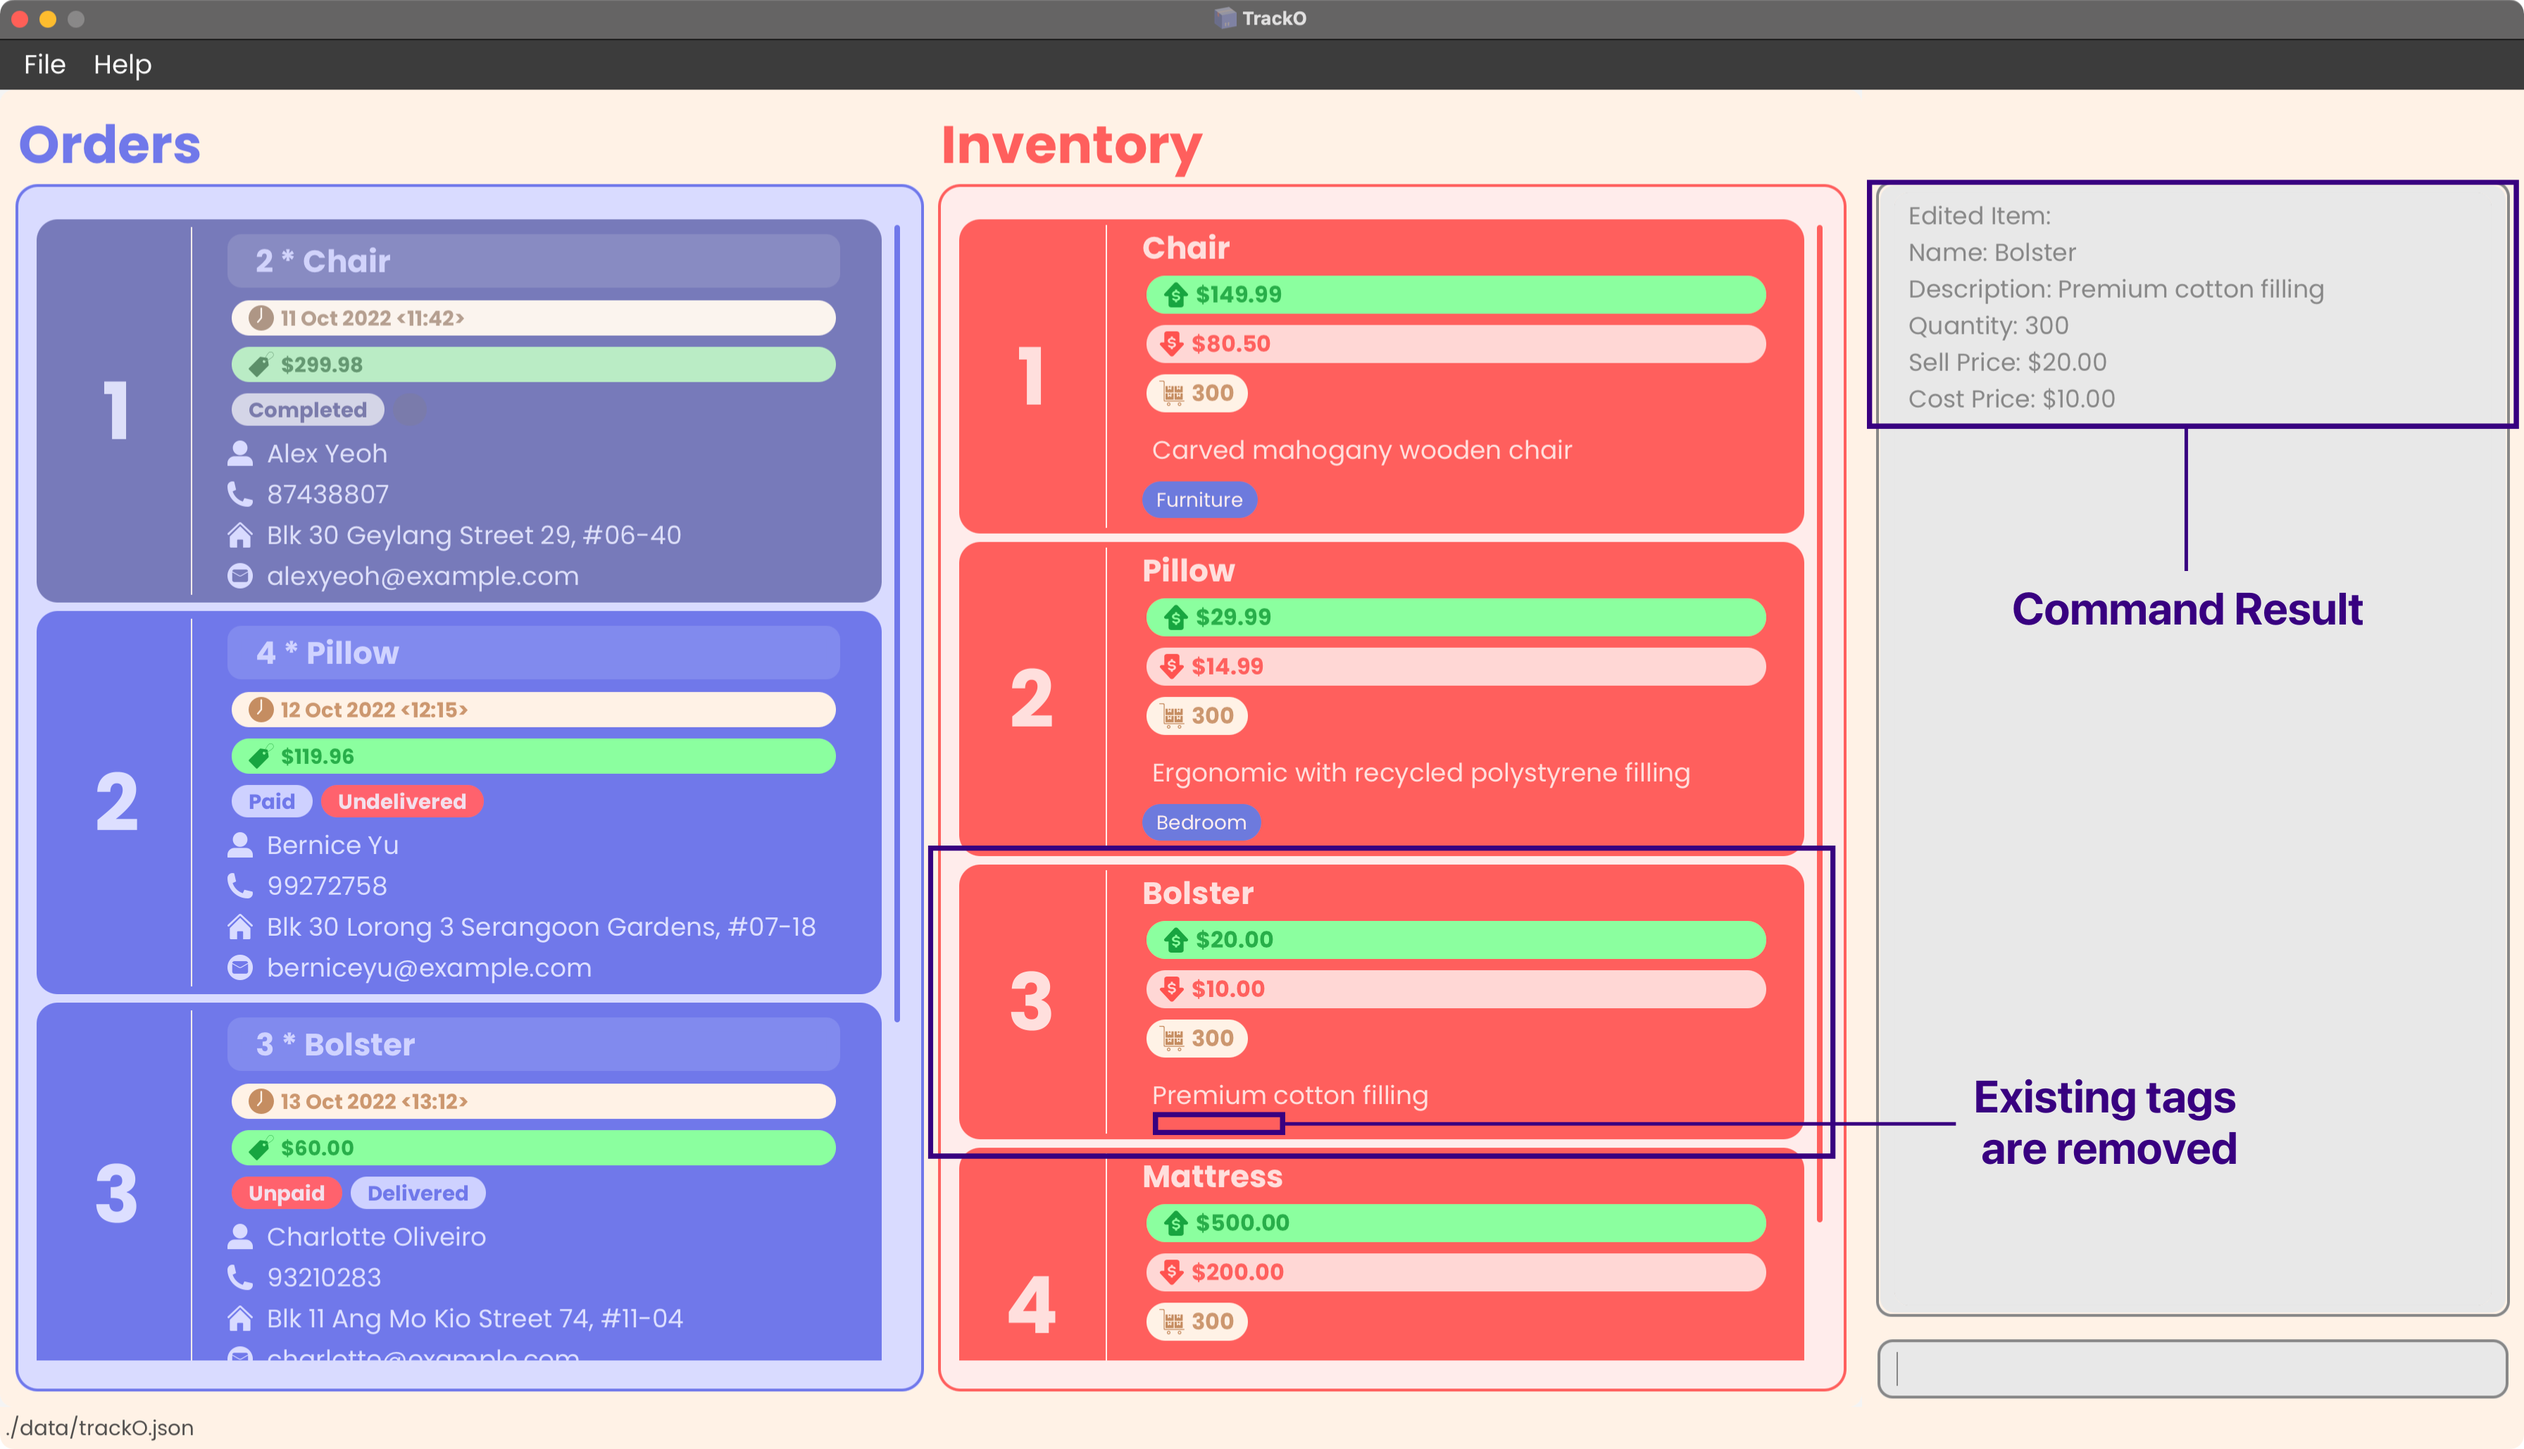
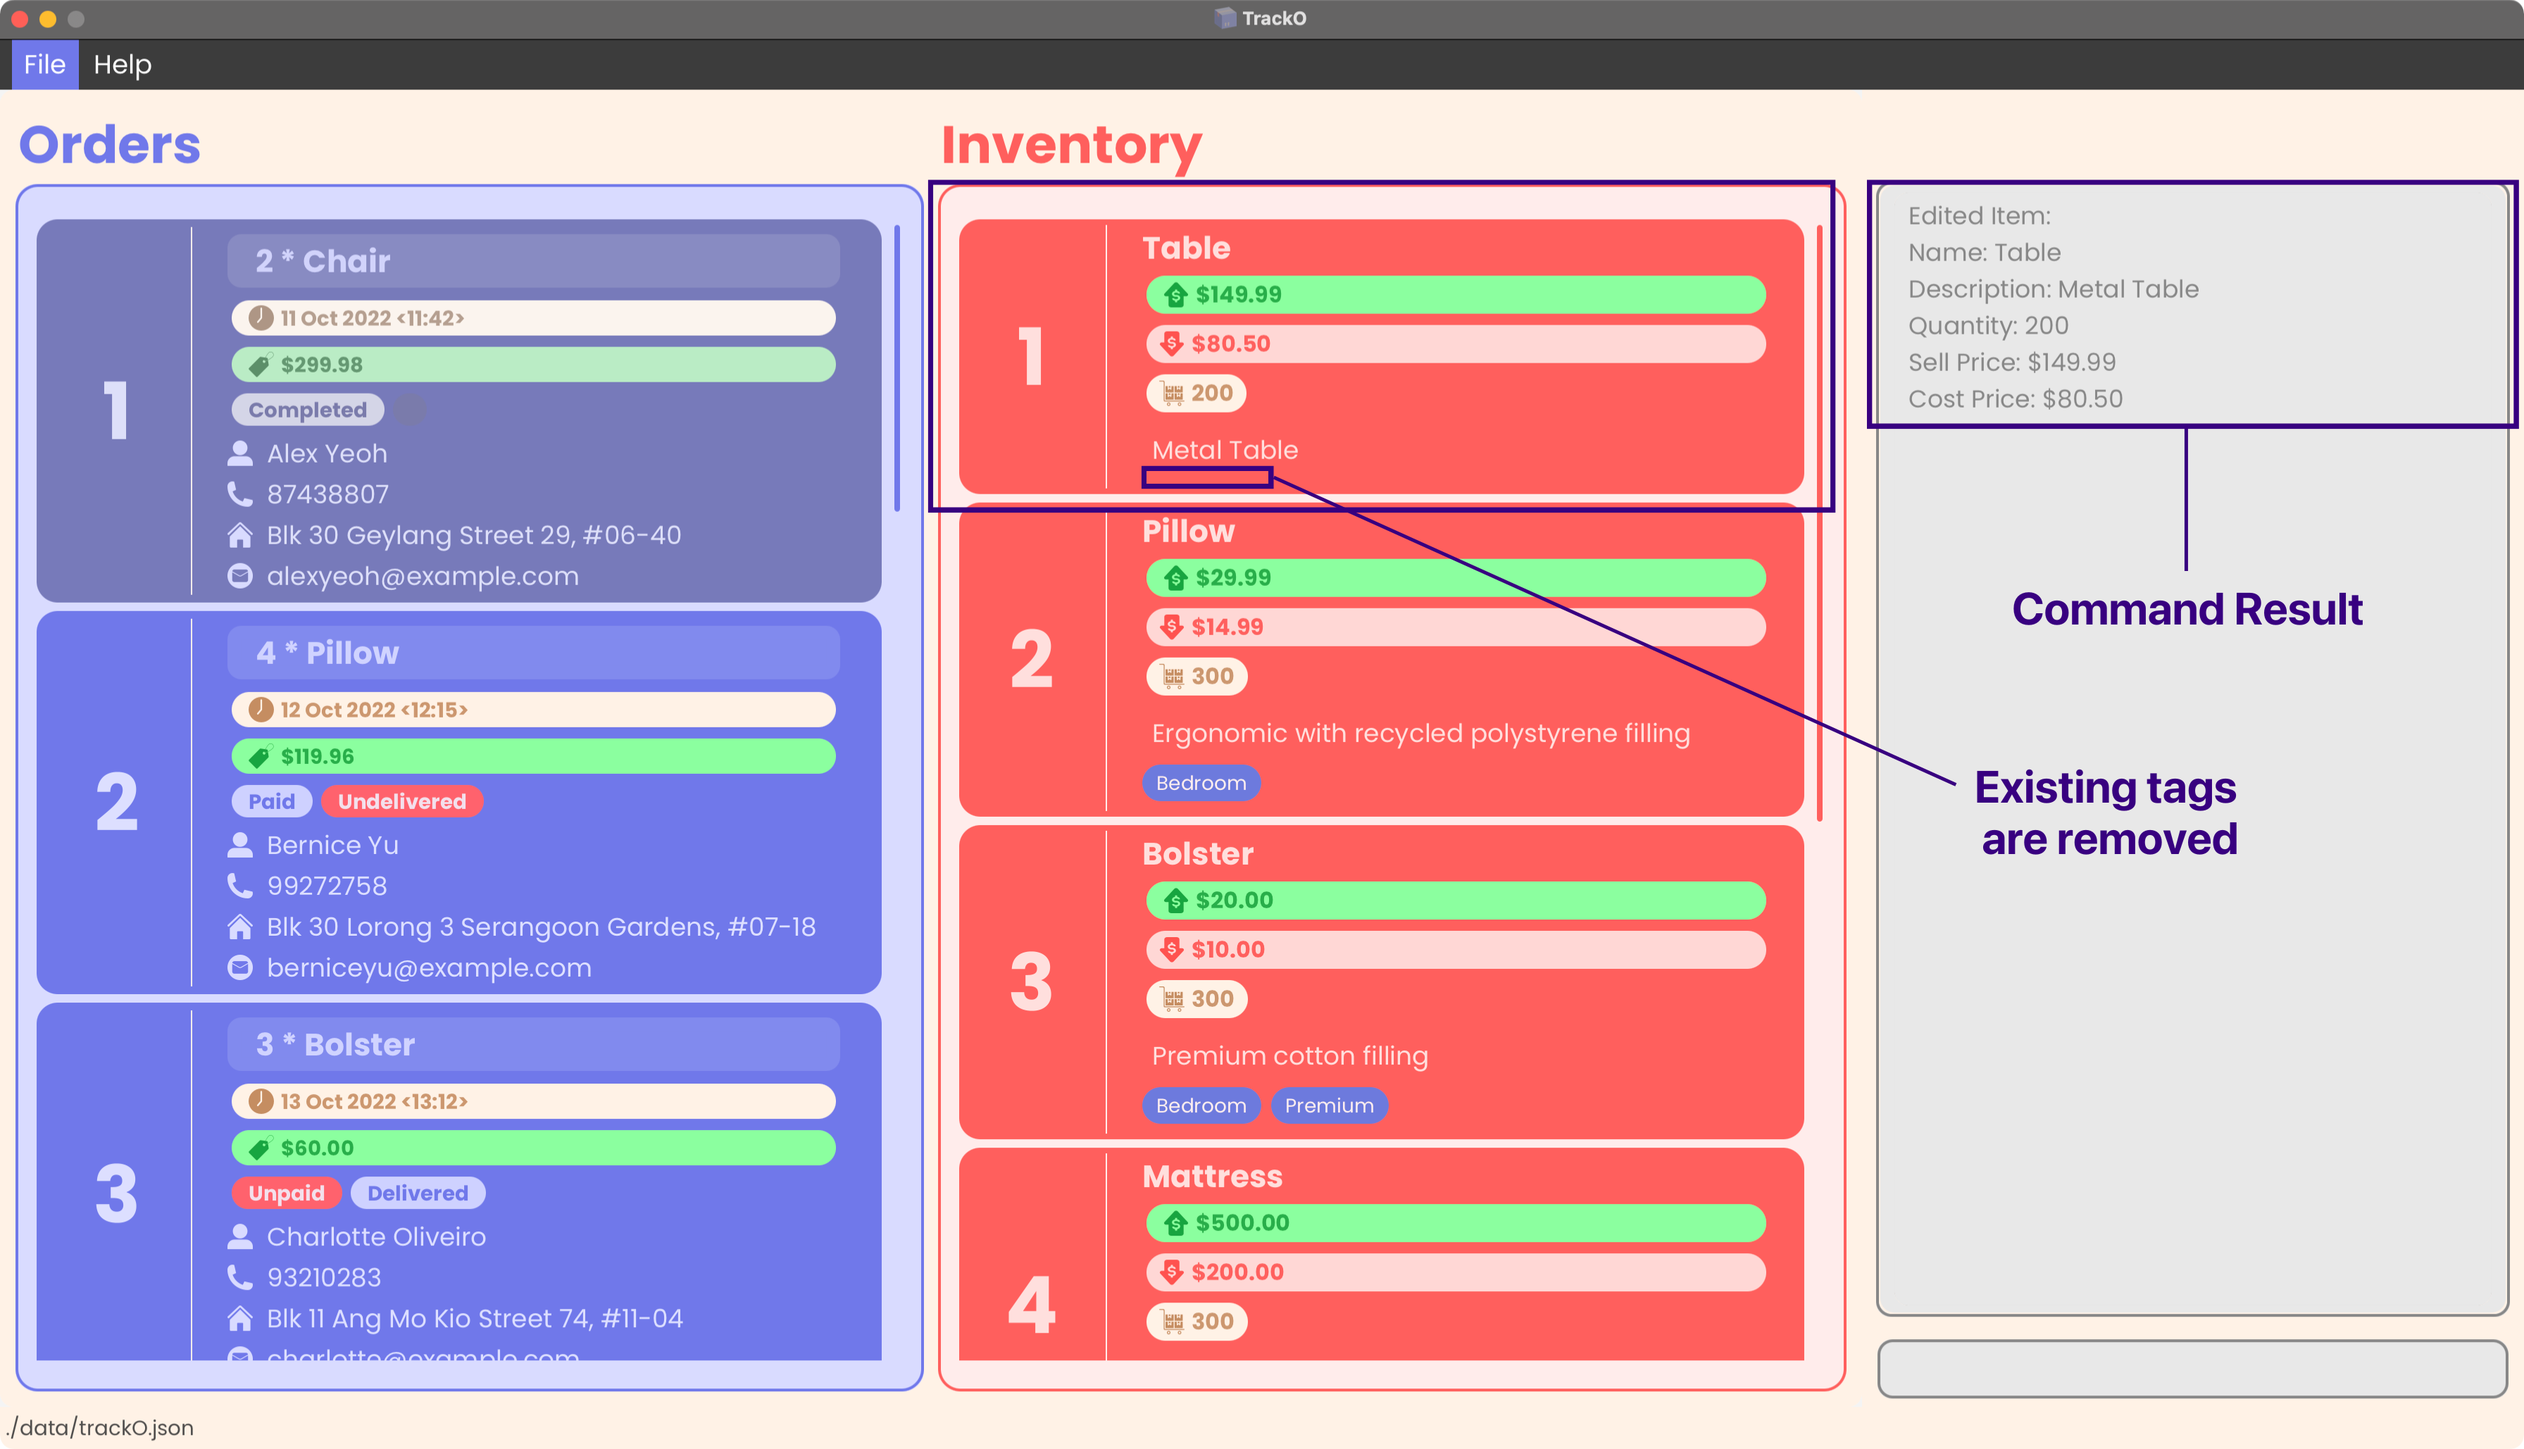
Add screenshots for item commands

diff --git a/docs/UserGuide.md b/docs/UserGuide.md
@@ -129,6 +129,8 @@ p.s. Not too sure about some technical terms in this guide? Check out our [gloss
 more technical specifications of each command.
 
 <div markdown="span" class="alert alert-primary">:bulb: **Tip:**
+Our application is loaded with sample data to help visualize how the application works.
+
 Want start using TrackO from scratch? Enter the [`clear`](#clearing-all-data-in-tracko-clear) command to remove 
 the application's sample data.
 </div>
@@ -162,7 +164,7 @@ TrackO's functionalities!
       
        * This command also helps to add a short description to the item and tags it as `New`.
 
-         You should see this item appear in TrackO at index `5` as shown below:
+         You should see this item appear in TrackO at [index](#index) `5` as shown below:
    
          <img src="./images/user-guide/Tutorial1.png" alt="Tutorial1">
     
@@ -263,12 +265,18 @@ An inventory item's name must be more than 1 character long.
 </div>
 
 <div markdown="span" class="alert alert-primary">:bulb: **Tip:**
-An inventory item can have any number of tags (including 0). A tag should only consist of 1 word. A tag **cannot** have more than 30 characters.
+An inventory item can have 0 or more tags. A tag should only consist of 1 word. A tag **cannot** have more than 30 characters.
 </div>
 
-Examples:
-* `addi i/Keychain q/20 d/Silicone keychain with a metal buckle sp/3.50 cp/1`
-* `addi i/Chair q/10 d/This is a wooden dining chair t/Furniture t/Mahogany sp/50 cp/20`
+Example(s):
+
+- Executing `addi i/Keychain q/20 d/Silicone keychain with a metal buckle sp/3.50 cp/1 t/Souvenir` to our sample data
+will add a new `Item` with the name `Keychain` which you have `20 units` of in your inventory stock, with the cost price
+of `$1` and selling price `$3.50`. The `Item` has the description `Silicone keychain with a metal buckle` and 
+tag `Souvenir`.
+  <br>
+  The following result will be displayed in the application.
+  <img src="./images/user-guide/AddiExample.png" alt="AddiExample">
 
 [Back to top &#8593;](#welcome-to-trackos-user-guide)
 
@@ -277,6 +285,11 @@ Examples:
 Lists all the existing items in the store’s inventory.
 
 Format: `listi`
+
+Example(s):
+- Executing `listi` to our sample data will list all the existing inventory items and display the following result.
+
+  <img src="./images/user-guide/ListiExample.png" alt="ListiExample">
 
 [Back to top &#8593;](#welcome-to-trackos-user-guide)
 
@@ -293,9 +306,16 @@ Format: `findi KEYWORD [MORE_KEYWORDS]`
 - Items matching at least one keyword will be returned (i.e. OR search).
   e.g. `shirt` will return `dress shirt`, `collared shirt`
 
-Examples:
-- `findi oil` returns items with item names containing the keyword `oil` such as `Olive Oil` and `Vegetable Oil`
-- `findi yellow pillow` returns items with the item names containing the keywords `yellow` and `pillow` such as `yellow blanket`, `ergonomic pillow` and `yellow pillow`
+Example(s):
+- Executing `findi mattress` to our sample data will find items that contain the word `mattress` and display the 
+  following result:
+
+  <img src="./images/user-guide/FindiExample1.png" alt="FindiExample1">
+  
+- Executing `findi mattress chair` to our sample data will find items that contain the word `mattress` or `chair` in 
+  their `Item Name`, and display the following result:
+
+  <img src="./images/user-guide/FindiExample2.png" alt="FindiExample2">
 
 [Back to top &#8593;](#welcome-to-trackos-user-guide)
 
@@ -308,11 +328,22 @@ Format: `deletei INDEX`
 * Deletes the item at the specified `INDEX`.
 * `INDEX` refers to the index number shown in the displayed inventory list.
 * `INDEX` **must be a positive integer** 1, 2, 3, …
-* TrackO does not allow items that are currently involved with unpaid/undelivered orders to be deleted
+
+<div markdown="span" class="alert alert-primary">:bulb: **Tip:**
+TrackO does not allow items that are currently involved with unpaid or undelivered orders to be deleted.
+</div>
 
 Examples:
-* `listi` followed by `deletei 2` deletes the 2nd item in the list of tracked inventory.
-* `findi Paper` followed by `deletei 1` deletes the 1st item in the results of the `findi` command.
+* Executing `deletei 1` to our sample data deletes the first item, `Chair` in the inventory list. Notice how the order 
+  involving `Chair` is completed, which allows the `Chair` to be deleted.
+
+  <img src="./images/user-guide/DeleteiExample1.png" alt="DeleteiExample1">
+  
+* When you enter `deletei 2` to our sample data, TrackO will remind you that the item you are trying to delete is currently
+  involved in an order (in this case, the order at index `2`). You will not be able to delete the item until the order is 
+  completed. To do so, see [`marko`](#marking-an-order-as-paiddelivered-marko).
+
+  <img src="./images/user-guide/DeleteiExample2.png" alt="DeleteiExample2">
 
 [Back to top &#8593;](#welcome-to-trackos-user-guide)
 
@@ -327,14 +358,28 @@ Format: `editi INDEX [i/ITEM_NAME] [q/QUANTITY] [d/DESCRIPTION] [sp/SELL_PRICE] 
 * `INDEX` **must be a positive integer** 1, 2, 3, …
 * You can remove all the item’s tags by typing `t/` without
   specifying any tags after it.
-* Editing items with active orders is not permitted.
+
+<div markdown="span" class="alert alert-primary">:bulb: **Tip:**
+When an `Item` is involved in an order, you cannot edit its `Item Name`, `Description`, `Sell Price`, `Cost Price`, and
+`Tag`. You can only edit its `Quantity` to allow for restock.
+</div>
 
 Examples:
-* `editi 1 i/Table q/200 d/Metal Table t/Fragile`
-  Edits the item name, quantity, description and tag of the 1st item to be
-  `Table`, `200`, `Metal Table` and `Fragile` respectively.
-* `editi 3 t/` removes the tags of the item at index 3.
-* `editi 3 t/bedroom t/premium` updates the tags of the item at index 3 to be `bedroom` and `premium`
+
+* Executing `editi 1 i/Table q/200 d/Metal Table t/Fragile` to our sample data will edit the item name, quantity, 
+  description and tag of the 1st item, which was `Chair`, to be `Table`, `200`, `Metal Table` and `Fragile` respectively.
+  
+  <img src="./images/user-guide/EditiExample1.png" alt="EditiExample1">
+  
+* Executing `editi 1 t/` removes the tags of the item at index 1.
+
+  <img src="./images/user-guide/EditiExample2.png" alt="EditiExample2">
+
+* When you enter `editi 3 i/Cookies d/Delicious home-made cookies` to our sample data, TrackO will remind you that the item
+you are trying to edit is currently involved in an order (in this case, the order at index `3`) and the item will not be edited.
+
+* When you enter `editi 3 q/500` to our sample data, the `Quantity` of the `Item` at index `3`, `Bolster`, will be restocked to
+`500 units`.
 
 [Back to top &#8593;](#welcome-to-trackos-user-guide)
 
@@ -620,5 +665,10 @@ by updating the user interface.
 `Parameter`s are the changeable inputs that you can give for a specific part of a command. For example, in the portion 
 `i/NAME` of the `addi` command, `NAME` can be replaced with the input that is meaningful to you (e.g, `i/Cookie` or 
 `i/Keychain`).
+
+### Index
+
+`Index` refers to the position of an order or item in the list. When we say that an `item` is at `Index 2`, it means that
+the item is currently in the second position on the list.
 
 [Back to top &#8593;](#welcome-to-trackos-user-guide)
